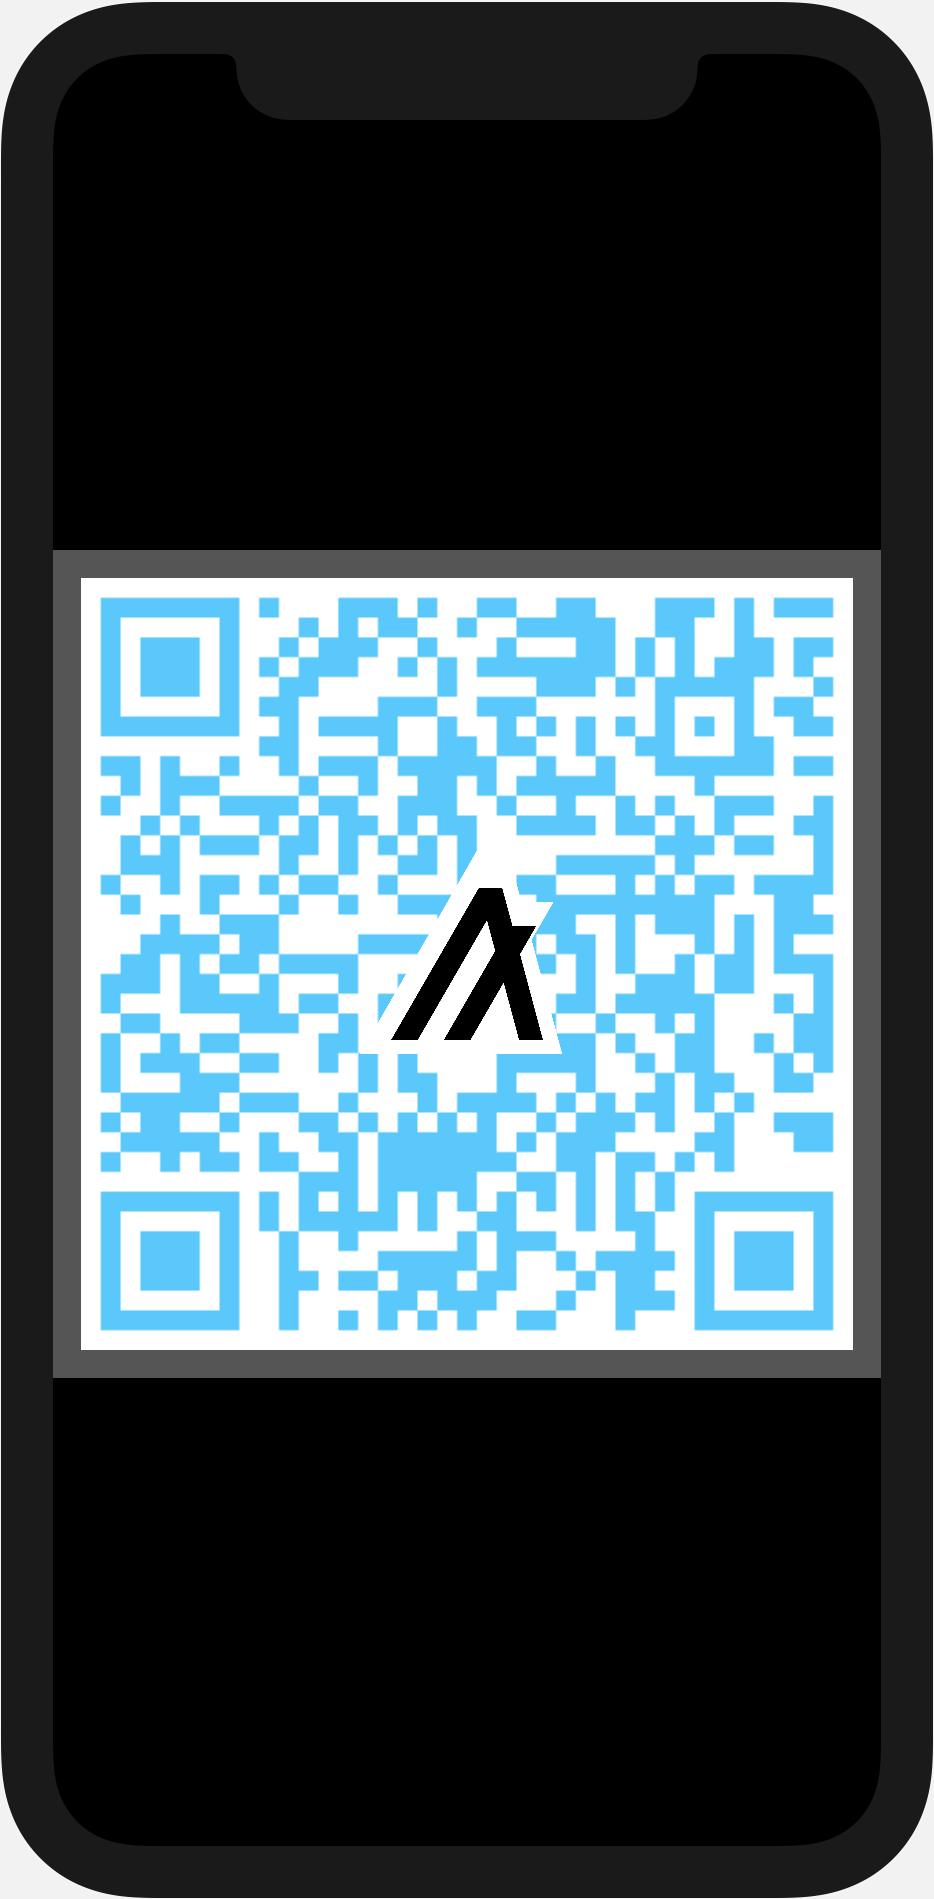
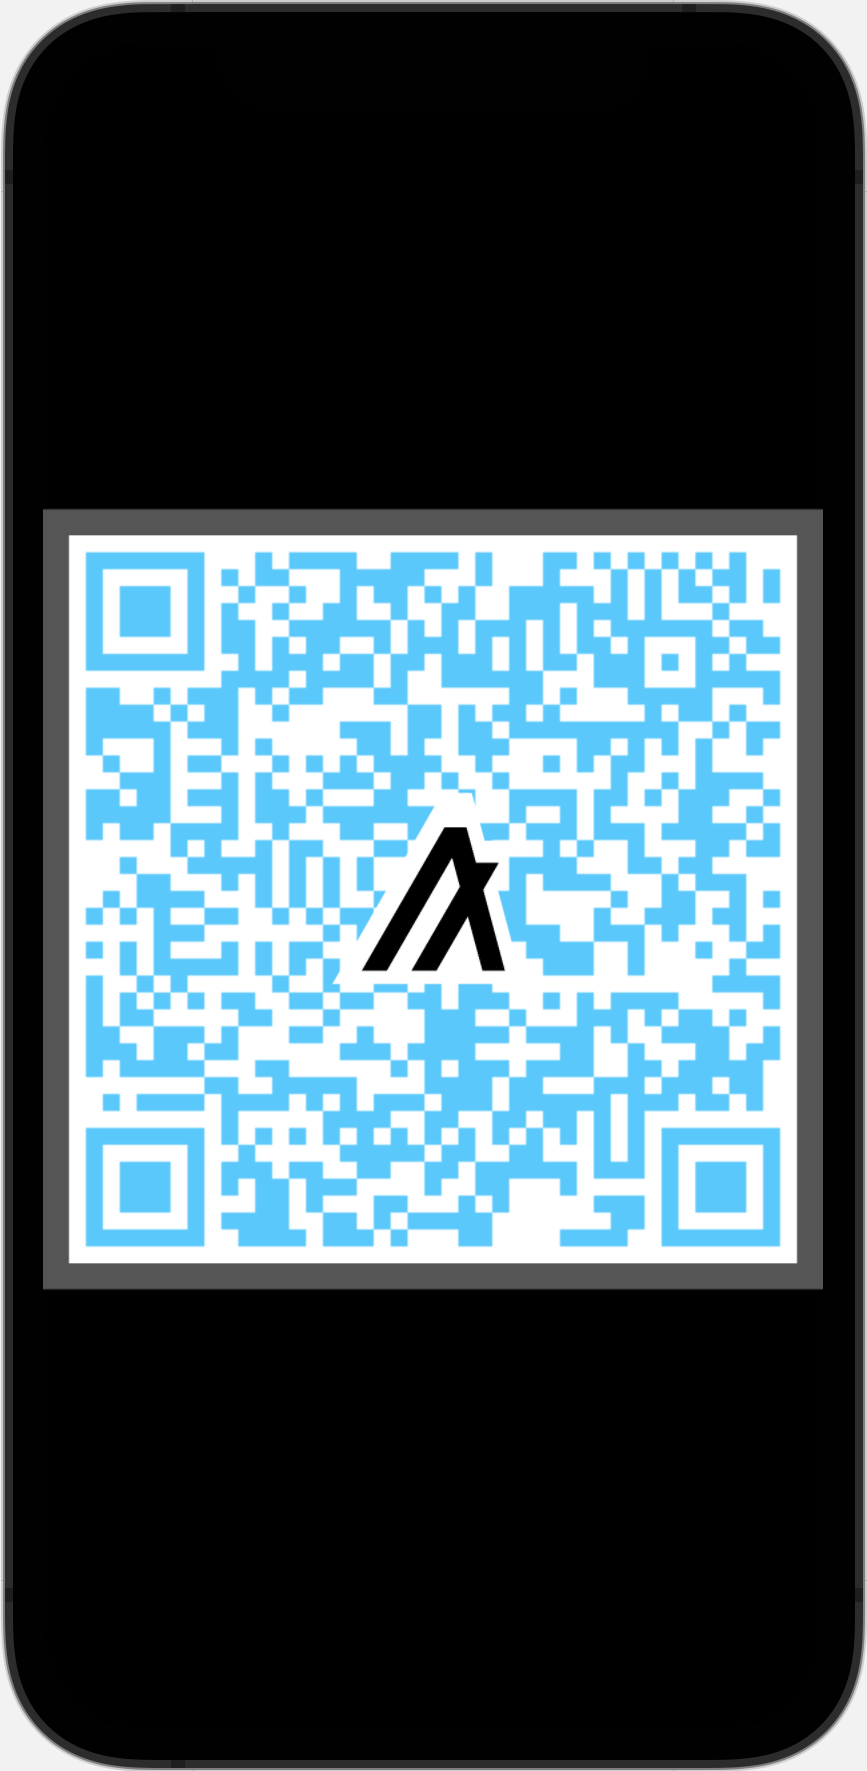
Increase QR code correction level.
- Re-generate screenshots with higher resolution.
- Also, add one more SwiftUI playground entry permutation.

diff --git a/Sources/AlgorandKit/AlgorandQRCodeBadge.swift b/Sources/AlgorandKit/AlgorandQRCodeBadge.swift
@@ -126,6 +126,12 @@ struct AlgorandQRCodeBadge_Previews: PreviewProvider {
       AlgorandQRCodeBadge(
         uri:AlgorandURI(receiver: AlgorandURI.Receiver(address: "4AOJ5QITUBWZGO4K5AF77H5GED5A4QDBB6DOQGI63QE2GU6KD2XNETBBJE", label: nil), assetAmount: nil, note: nil),
         qrCodeColor: UIColor.black,
+        frameConfiguration: .unframed,
+        includeLogo: true)
+      
+      AlgorandQRCodeBadge(
+        uri:AlgorandURI(receiver: AlgorandURI.Receiver(address: "4AOJ5QITUBWZGO4K5AF77H5GED5A4QDBB6DOQGI63QE2GU6KD2XNETBBJE", label: nil), assetAmount: nil, note: nil),
+        qrCodeColor: UIColor.black,
         frameConfiguration: .framed(color: UIColor.black),
         includeLogo: false)
       

diff --git a/Sources/AlgorandKit/AlgorandURIUI.swift b/Sources/AlgorandKit/AlgorandURIUI.swift
@@ -26,6 +26,7 @@ extension AlgorandURI {
       let data = url.absoluteString.data(using: String.Encoding.ascii)
       if let filter = CIFilter(name: "CIQRCodeGenerator") {
         filter.setValue(data, forKey: "inputMessage")
+        filter.setValue("Q", forKey: "inputCorrectionLevel")
         if let outputImage = filter.outputImage,
            let cgImage = CIContext().createCGImage(outputImage,
                                                    from: outputImage.extent) {
